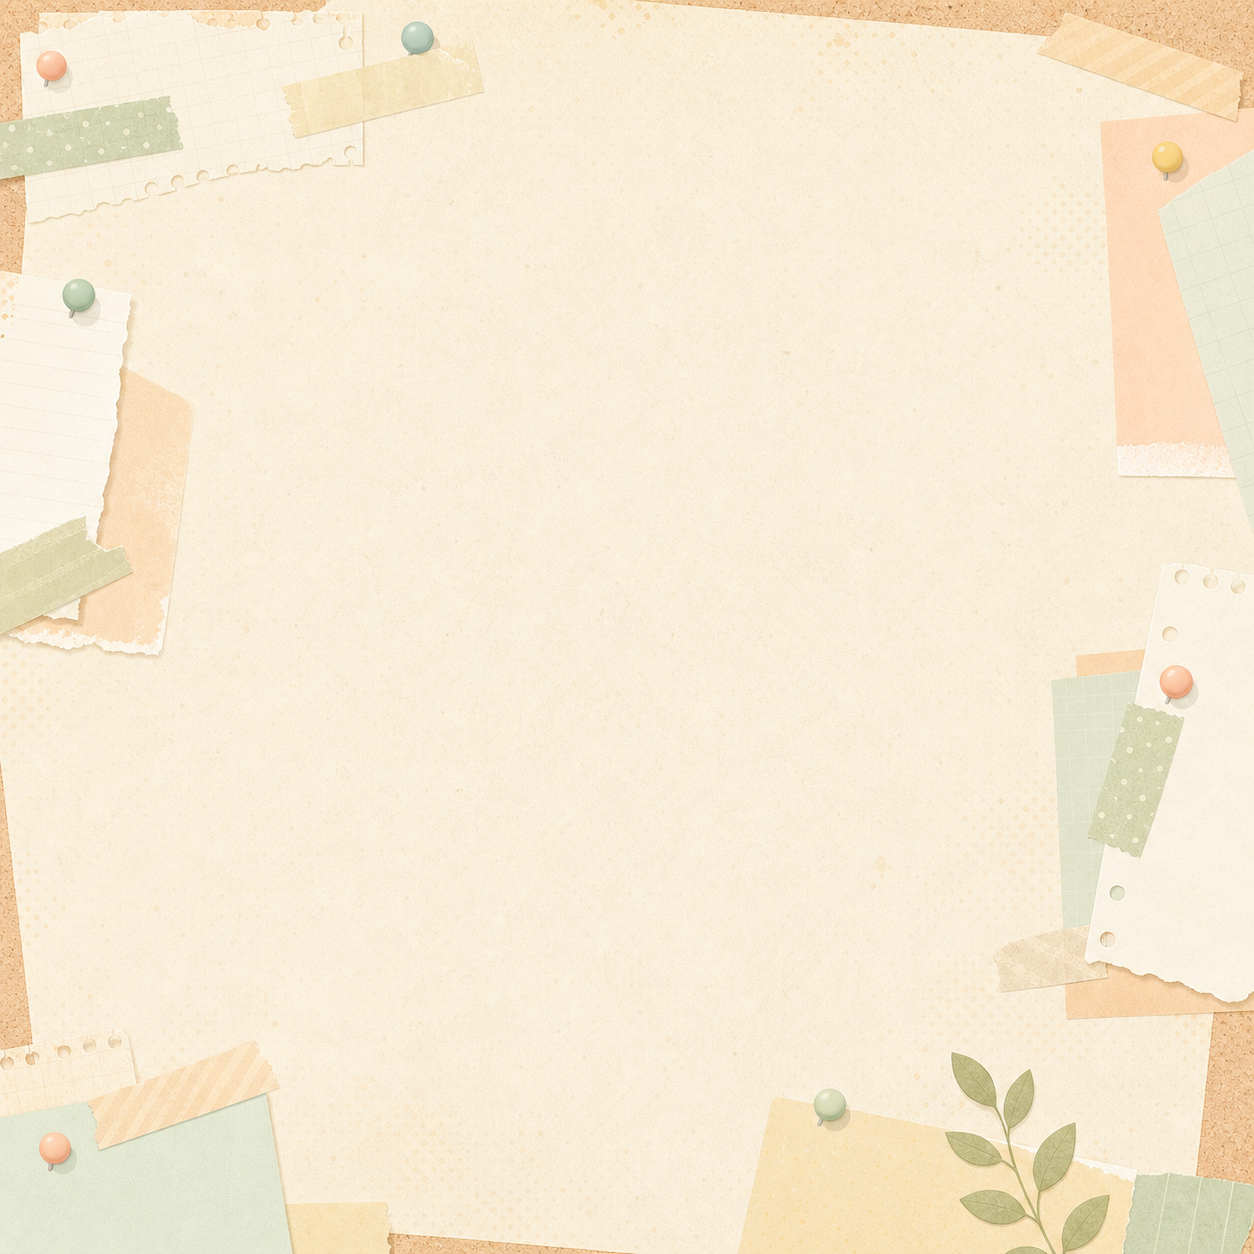
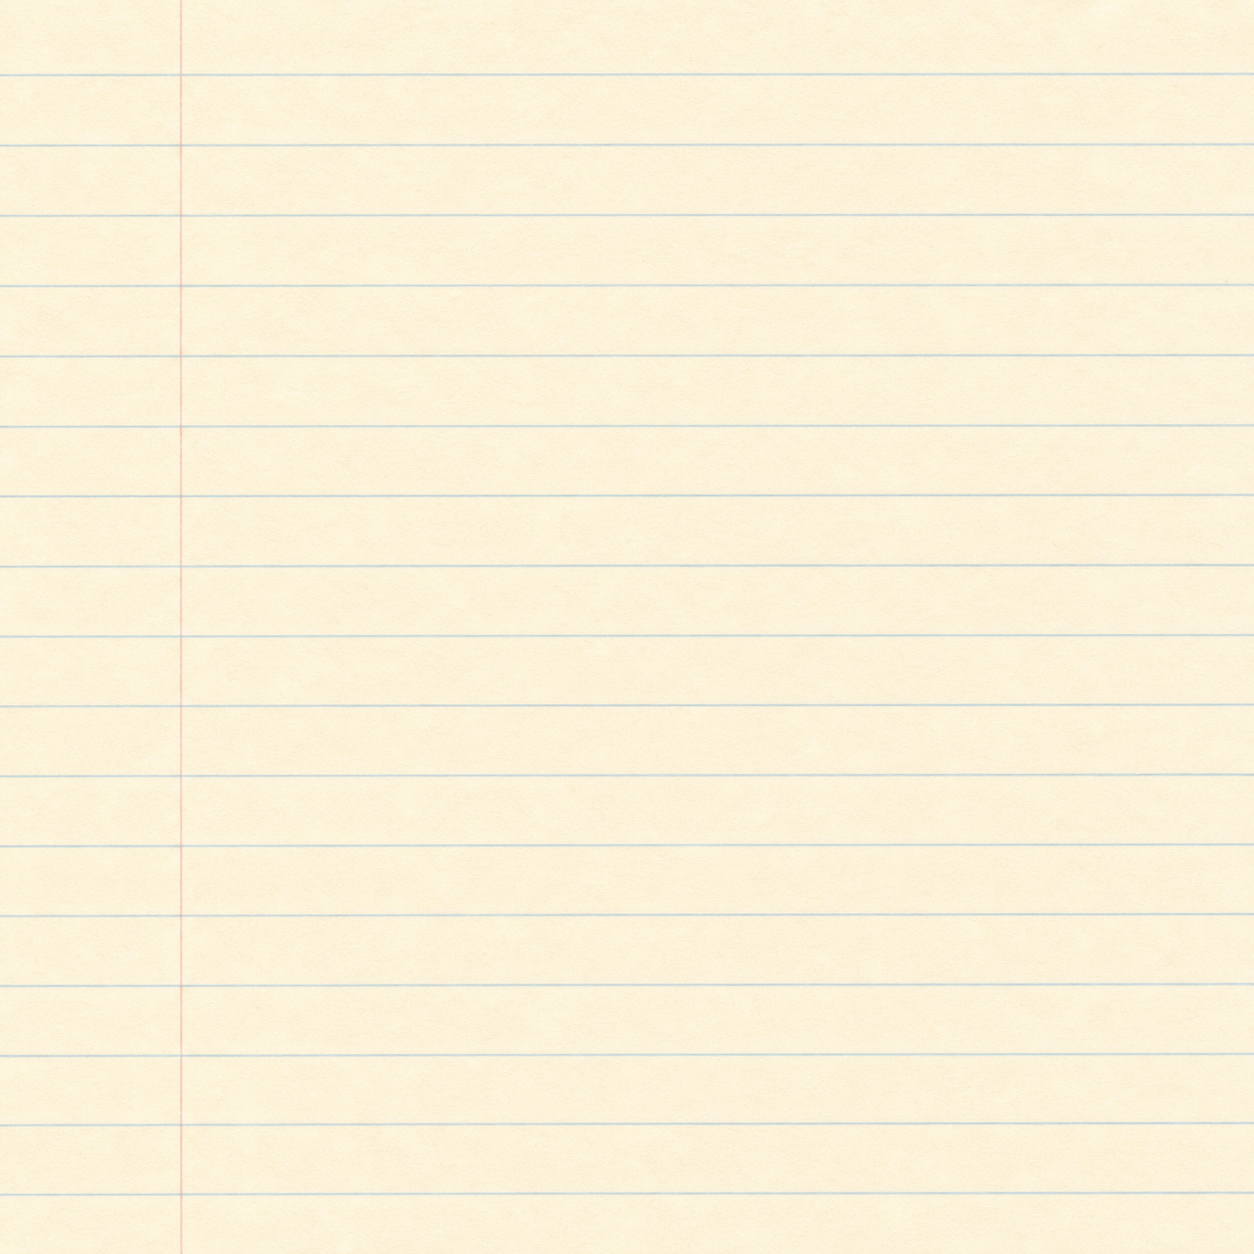
update mailbox paper background

diff --git a/docs/system-design.html b/docs/system-design.html
@@ -660,7 +660,7 @@
 <li>Player deletes are soft deletes on <code>MailboxMessage.deletedAt</code>; future-eligible global batches still see that delivery history, so a deleted mail is not recreated on the next mailbox summary or list refresh.</li>
 </ul>
 <ul>
-<li>The player mailbox keeps the same list/detail layout for empty inboxes; the left mail list shows the empty state while the detail pane remains reserved. Desktop uses a left-list/right-detail split, while mobile remains list-first and enters the selected detail with an explicit back control. Every mail row shows its sender below the title, and the paper detail repeats the sender directly below the heading. Its player modal title omits the former English subtitle, and the close button stays in the title row on desktop and in the final Bright School portrait mobile safety layer. Mail rows are colored by status: pink for unread/unclaimed, light green for read/unclaimed, and gray for read/completed. Item attachments render a 42px catalog image or built-in semantic icon beside the localized item name, quantity, and claim state; internal item ids are data only and never player copy. The mail detail pane stretches to the bottom of the mailbox content area with modal padding preserved; long mail text scrolls inside the body region while time, title, sender, attachment, and actions stay in the detail frame. The detail pane uses <code>/assets/mailbox/mail-body-paper.png</code> as a covered paper background on desktop and mobile, with a light translucent frosted overlay above the art that fades at the edges to protect text readability without hiding the paper, a thicker paper border, and a small lower-right shadow; delete remains the icon-only pink circular trash control in the detail pane's transparent top-right time row.</li>
+<li>The player mailbox keeps the same list/detail layout for empty inboxes; the left mail list shows the empty state while the detail pane remains reserved. Desktop uses a left-list/right-detail split, while mobile remains list-first and enters the selected detail with an explicit back control. Every mail row shows its sender below the title, and the paper detail repeats the sender directly below the heading. Its player modal title omits the former English subtitle, and the close button stays in the title row on desktop and in the final Bright School portrait mobile safety layer. Mail rows are colored by status: pink for unread/unclaimed, light green for read/unclaimed, and gray for read/completed. Item attachments render a 42px catalog image or built-in semantic icon beside the localized item name, quantity, and claim state; internal item ids are data only and never player copy. The mail detail pane stretches to the bottom of the mailbox content area with modal padding preserved; long mail text scrolls inside the body region while time, title, sender, attachment, and actions stay in the detail frame. The detail pane uses <code>/assets/mailbox/mail-body-paper.png</code> as a covered paper background on desktop and mobile. That raster is an edge-to-edge warm-ivory sheet with pale-blue horizontal rules and one faint muted-red left margin line; it contains no surrounding stationery, corner objects, frame, or sheet-edge decoration. A light translucent frosted overlay above the art fades at the edges to protect text readability without hiding the rules, while the detail surface keeps its thicker paper border and small lower-right shadow; delete remains the icon-only pink circular trash control in the detail pane's transparent top-right time row.</li>
 </ul>
 <ul>
 <li>App-level overlays must keep <code>useOverlayState</code>, <code>App</code>, <code>useAppActions</code>, and <code>useOverlayActions</code> wiring in sync. <code>closeAllOverlays()</code> is reused by <code>match:found</code>, room resume, and replay entry flows, so a missing overlay setter can break matchmaking before the match-success/preload state is recorded.</li>
@@ -5029,7 +5029,7 @@
 <li>The home mailbox entry uses a <code>lucide-react</code> mail icon in the existing top-right action cluster on desktop and the compact mobile menu on phones. The badge is the unread plus claimable count from the summary API.</li>
 </ul>
 <ul>
-<li><code>src/styles/modals/information-center.css</code> defines the shared desktop list/reader grid for announcement and mailbox (<code>288–312px</code> master column plus a flexible reader). <code>src/styles/modals/mailbox.css</code> only owns mailbox list states, the existing mail-paper reader, attachments, and actions. Item attachments use a 42px catalog image or semantic icon followed by localized name, quantity, and claim state; the row fits portrait width without rendering internal ids. Desktop opens the newest message after loading; mobile remains list-first and no longer renders a horizontal card strip above the reader.</li>
+<li><code>src/styles/modals/information-center.css</code> defines the shared desktop list/reader grid for announcement and mailbox (<code>288–312px</code> master column plus a flexible reader). <code>src/styles/modals/mailbox.css</code> only owns mailbox list states, the mail-paper reader, attachments, and actions. The reader keeps the stable <code>/assets/mailbox/mail-body-paper.png</code> URL, whose raster is now a plain edge-to-edge warm-ivory sheet with pale-blue horizontal rules and a faint muted-red left margin line, without surrounding stationery or edge decoration. Item attachments use a 42px catalog image or semantic icon followed by localized name, quantity, and claim state; the row fits portrait width without rendering internal ids. Desktop opens the newest message after loading; mobile remains list-first and no longer renders a horizontal card strip above the reader.</li>
 </ul>
 <ul>
 <li>Desktop announcement, changelog, and mailbox information centers open the newest first row after loading; an unread default row follows the same read mutation path as a clicked row. Phones remain list-first, keep their existing domain empty copy, and mutate read state only after an explicit row selection.</li>
@@ -5116,7 +5116,7 @@
 <li>Empty player inboxes keep the same mailbox layout as populated inboxes: the mail strip renders a compact empty row, and the detail pane stays reserved instead of replacing the whole modal with a separate empty card.</li>
 </ul>
 <ul>
-<li>Mail list rows use status color as a scan cue: pink for unread or unclaimed mail, light green for read but unclaimed mail, and gray for completed mail. The detail pane uses <code>/assets/mailbox/mail-body-paper.png</code> with proportional cover sizing and a light frosted content overlay so text stays readable.</li>
+<li>Mail list rows use status color as a scan cue: pink for unread or unclaimed mail, light green for read but unclaimed mail, and gray for completed mail. The detail pane uses the plain ruled <code>/assets/mailbox/mail-body-paper.png</code> with proportional cover sizing and a light frosted content overlay so text stays readable; the raster itself contains no four-side decoration.</li>
 </ul>
 <ul>
 <li>Mailbox mobile safety lives in <code>src/styles/mobile-adaptive/bright-school-portrait/mailbox-modal.css</code>, imported through the final Bright School portrait guard entry after chat fixes and before character detail fixes.</li>

diff --git a/.trellis/tasks/07-31-generate-plain-lined-mailbox-paper-candidates/prd.md b/.trellis/tasks/07-31-generate-plain-lined-mailbox-paper-candidates/prd.md
@@ -1,0 +1,77 @@
+# Generate Plain Lined Mailbox Paper Candidates
+
+## Goal
+
+Generate three selectable square mailbox letter-paper backgrounds that replace the current decorated collage with a plain, readable horizontal-rule paper surface.
+
+## What I Already Know
+
+- The current asset is `public/assets/mailbox/mail-body-paper.png`.
+- It is a `1254x1254` RGB image used by `.mailbox-detail` with `background-size: cover`.
+- The current asset contains paper scraps, tape, pins, leaves, and other decorations around all four sides.
+- The user wants plain lined stationery and explicitly does not want any surrounding decoration.
+
+## Requirements
+
+- Produce three distinct but restrained visual directions.
+- Keep every candidate square and suitable for `background-size: cover`.
+- Fill the entire canvas with a flat, front-facing paper surface.
+- Use uninterrupted horizontal writing rules as the only structural graphic.
+- Keep contrast low enough for dark mailbox text to remain readable.
+- Include no words, logos, watermarks, objects, borders, or visible sheet edges.
+- Persist all three candidates in the task artifact folder for comparison.
+- Use candidate 1, the classic warm-ivory paper with pale-blue rules and a faint muted-red left margin, as the selected production background.
+- Replace the existing mailbox background at its current stable asset path so the consuming CSS does not need a URL change.
+- Preserve the existing mailbox layout and interaction behavior.
+
+## Candidate Directions
+
+1. Classic warm ivory paper with pale blue rules and a faint muted-red left margin.
+2. Natural cream paper with warm gray-brown rules and no margin line.
+3. Fresh light ivory paper with desaturated mint-gray rules and a faint dusty-pink left margin.
+
+## Acceptance Criteria
+
+- [x] Three candidate images are generated and shown to the user.
+- [x] Every image has a square composition and continuous horizontal rules.
+- [x] No candidate contains corner or edge decorations, stationery objects, sheet outlines, shadows, text, or watermarks.
+- [x] Paper grain remains subtle and does not compete with mailbox content.
+- [x] Existing `mail-body-paper.png` and consuming CSS remain unchanged pending selection.
+- [x] Candidate 1 replaces `public/assets/mailbox/mail-body-paper.png` at exactly `1254x1254`.
+- [ ] The user completes final visual acceptance on desktop and portrait mobile; automated visual inspection was explicitly stopped at the user's request.
+- [x] System design documentation and generated HTML are synchronized.
+
+## Definition of Done
+
+- The three image files and their prompts are saved.
+- Candidate 1 is copied to the stable production mailbox asset path after user selection.
+- Static asset validation, focused mailbox tests, lint, build, and documentation generation pass.
+- Final visual acceptance is handed off to the user.
+
+## Decision (ADR-lite)
+
+**Context**: The production background is a square raster that is cropped with `background-size: cover`, while the user requested a simpler visual direction.
+
+**Decision**: Generate three edge-to-edge, orthographic paper textures with no focal decoration, then adopt candidate 1 after user selection. Keep the production URL stable and replace only the raster contents.
+
+**Consequences**: The existing CSS and preload behavior continue to work without a URL migration. The previous decorated raster is replaced but remains recoverable from Git history.
+
+## Out of Scope
+
+- Editing mailbox CSS or layout.
+- Adding decorative objects or adapting other modal backgrounds.
+
+## Technical Notes
+
+- Current consumer: `src/styles/modals/mailbox/detail.css`.
+- Current source asset: `public/assets/mailbox/mail-body-paper.png`.
+- Generation mode: GPT Image 2 skill Mode B, using the host-native image generation tool.
+- Prompt record: `garden-gpt-image-2/prompt/mailbox-lined-paper-options-20260731-102259.md`.
+- All three generated candidates were `1254x1254` PNG images. Candidate 1 is the persisted production file; discarded task-local copies are not retained after selection.
+- Validation:
+  - `npm run lint`
+  - `npm test -- src/modals/MailboxModal.test.jsx` (`7` tests)
+  - `npm run build`
+  - `npm run docs:system-design`
+  - production and built mailbox assets match byte-for-byte and remain `1254x1254` RGB PNGs
+- Trellis spec review: no code-spec update is needed because this changes no API, state, CSS ownership, reusable implementation pattern, or cross-layer contract. The durable visual fact is captured in `docs/system-design.md` and `docs/system-design/06-ui-theme-mobile.md`.

diff --git a/docs/system-design.md b/docs/system-design.md
@@ -252,7 +252,7 @@
 - Mailbox is an authenticated player/admin HTTP feature. Players open it from the home top-right action area or the mobile menu, read admin-only text mail, manually claim one optional attachment, and can keep at most 20 messages.
 - Admins send mailbox batches from the admin console to one user, all current users, or all current plus future users. Every new send requires a trimmed display sender of at most 40 characters; the backend validates it and snapshots it onto both `MailboxBatch` and each delivered `MailboxMessage`, including messages delivered later from future-eligible batches. Older rows with no stored sender are projected as `系统` instead of exposing the internal admin username. Item and coin claims update the existing inventory and progress systems.
 - Player deletes are soft deletes on `MailboxMessage.deletedAt`; future-eligible global batches still see that delivery history, so a deleted mail is not recreated on the next mailbox summary or list refresh.
-- The player mailbox keeps the same list/detail layout for empty inboxes; the left mail list shows the empty state while the detail pane remains reserved. Desktop uses a left-list/right-detail split, while mobile remains list-first and enters the selected detail with an explicit back control. Every mail row shows its sender below the title, and the paper detail repeats the sender directly below the heading. Its player modal title omits the former English subtitle, and the close button stays in the title row on desktop and in the final Bright School portrait mobile safety layer. Mail rows are colored by status: pink for unread/unclaimed, light green for read/unclaimed, and gray for read/completed. Item attachments render a 42px catalog image or built-in semantic icon beside the localized item name, quantity, and claim state; internal item ids are data only and never player copy. The mail detail pane stretches to the bottom of the mailbox content area with modal padding preserved; long mail text scrolls inside the body region while time, title, sender, attachment, and actions stay in the detail frame. The detail pane uses `/assets/mailbox/mail-body-paper.png` as a covered paper background on desktop and mobile, with a light translucent frosted overlay above the art that fades at the edges to protect text readability without hiding the paper, a thicker paper border, and a small lower-right shadow; delete remains the icon-only pink circular trash control in the detail pane's transparent top-right time row.
+- The player mailbox keeps the same list/detail layout for empty inboxes; the left mail list shows the empty state while the detail pane remains reserved. Desktop uses a left-list/right-detail split, while mobile remains list-first and enters the selected detail with an explicit back control. Every mail row shows its sender below the title, and the paper detail repeats the sender directly below the heading. Its player modal title omits the former English subtitle, and the close button stays in the title row on desktop and in the final Bright School portrait mobile safety layer. Mail rows are colored by status: pink for unread/unclaimed, light green for read/unclaimed, and gray for read/completed. Item attachments render a 42px catalog image or built-in semantic icon beside the localized item name, quantity, and claim state; internal item ids are data only and never player copy. The mail detail pane stretches to the bottom of the mailbox content area with modal padding preserved; long mail text scrolls inside the body region while time, title, sender, attachment, and actions stay in the detail frame. The detail pane uses `/assets/mailbox/mail-body-paper.png` as a covered paper background on desktop and mobile. That raster is an edge-to-edge warm-ivory sheet with pale-blue horizontal rules and one faint muted-red left margin line; it contains no surrounding stationery, corner objects, frame, or sheet-edge decoration. A light translucent frosted overlay above the art fades at the edges to protect text readability without hiding the rules, while the detail surface keeps its thicker paper border and small lower-right shadow; delete remains the icon-only pink circular trash control in the detail pane's transparent top-right time row.
 - App-level overlays must keep `useOverlayState`, `App`, `useAppActions`, and `useOverlayActions` wiring in sync. `closeAllOverlays()` is reused by `match:found`, room resume, and replay entry flows, so a missing overlay setter can break matchmaking before the match-success/preload state is recorded.
 
 ## Stability Boundary Update

diff --git a/docs/system-design/06-ui-theme-mobile.md b/docs/system-design/06-ui-theme-mobile.md
@@ -144,7 +144,7 @@
 ## Mailbox UI And Mobile
 
 - The home mailbox entry uses a `lucide-react` mail icon in the existing top-right action cluster on desktop and the compact mobile menu on phones. The badge is the unread plus claimable count from the summary API.
-- `src/styles/modals/information-center.css` defines the shared desktop list/reader grid for announcement and mailbox (`288–312px` master column plus a flexible reader). `src/styles/modals/mailbox.css` only owns mailbox list states, the existing mail-paper reader, attachments, and actions. Item attachments use a 42px catalog image or semantic icon followed by localized name, quantity, and claim state; the row fits portrait width without rendering internal ids. Desktop opens the newest message after loading; mobile remains list-first and no longer renders a horizontal card strip above the reader.
+- `src/styles/modals/information-center.css` defines the shared desktop list/reader grid for announcement and mailbox (`288–312px` master column plus a flexible reader). `src/styles/modals/mailbox.css` only owns mailbox list states, the mail-paper reader, attachments, and actions. The reader keeps the stable `/assets/mailbox/mail-body-paper.png` URL, whose raster is now a plain edge-to-edge warm-ivory sheet with pale-blue horizontal rules and a faint muted-red left margin line, without surrounding stationery or edge decoration. Item attachments use a 42px catalog image or semantic icon followed by localized name, quantity, and claim state; the row fits portrait width without rendering internal ids. Desktop opens the newest message after loading; mobile remains list-first and no longer renders a horizontal card strip above the reader.
 - Desktop announcement, changelog, and mailbox information centers open the newest first row after loading; an unread default row follows the same read mutation path as a clicked row. Phones remain list-first, keep their existing domain empty copy, and mutate read state only after an explicit row selection.
 - The mailbox modal is included in the shared terminal and Bright School modal shell layers so desktop renders as a centered sheet instead of a full-width strip, while mobile keeps a top sheet with safe-area padding.
 - `src/styles/admin/mailbox.css` defines the admin send form and recent send history as a two-column admin workspace on desktop and a single-column flow below 900px.
@@ -182,5 +182,5 @@
 - The home mailbox entry uses a mail icon in the existing top-right action cluster on desktop and in the compact mobile menu on phones. The badge combines unread mail and claimable attachment counts from the summary API, and the mobile menu renders it as an absolute corner badge so the number never wraps or changes button layout.
 - Player mailbox UI uses a two-column list/detail layout on desktop. Mobile switches to a top horizontal mail strip above the detail pane, with newer mail cards on the left and older cards to the right.
 - Empty player inboxes keep the same mailbox layout as populated inboxes: the mail strip renders a compact empty row, and the detail pane stays reserved instead of replacing the whole modal with a separate empty card.
-- Mail list rows use status color as a scan cue: pink for unread or unclaimed mail, light green for read but unclaimed mail, and gray for completed mail. The detail pane uses `/assets/mailbox/mail-body-paper.png` with proportional cover sizing and a light frosted content overlay so text stays readable.
+- Mail list rows use status color as a scan cue: pink for unread or unclaimed mail, light green for read but unclaimed mail, and gray for completed mail. The detail pane uses the plain ruled `/assets/mailbox/mail-body-paper.png` with proportional cover sizing and a light frosted content overlay so text stays readable; the raster itself contains no four-side decoration.
 - Mailbox mobile safety lives in `src/styles/mobile-adaptive/bright-school-portrait/mailbox-modal.css`, imported through the final Bright School portrait guard entry after chat fixes and before character detail fixes.

diff --git a/garden-gpt-image-2/prompt/mailbox-lined-paper-options-20260731-102259.md b/garden-gpt-image-2/prompt/mailbox-lined-paper-options-20260731-102259.md
@@ -1,0 +1,36 @@
+# Mailbox Lined Paper Options
+
+## Shared Constraints
+
+Use case: stylized-concept
+Asset type: square game UI mailbox reading-panel background texture
+Primary request: a plain, understated horizontal-lined letter-paper background
+Composition/framing: exact front-facing orthographic view; the paper surface fills the complete 1:1 canvas edge to edge; straight evenly spaced horizontal rules continue fully across the image; crop-safe for CSS `background-size: cover`; no focal point
+Lighting/mood: flat, soft, quiet, highly readable; no directional lighting
+Text: none
+Constraints: subtle low-contrast paper fibers; dark interface text must stay readable; no visible sheet boundary; no perspective; no objects; no decorative motifs
+Avoid: borders, frames, corner decorations, paper scraps, tape, pins, clips, flowers, leaves, envelopes, stamps, notebook holes, torn or deckled edges, folded corners, shadows, layered sheets, stains, splashes, vignettes, gradients, handwriting, printed text, logos, watermarks
+
+## Option 1 — Classic Blue Rules
+
+Scene/backdrop: warm ivory writing paper filling the entire canvas
+Style/medium: gently hand-painted 2D paper texture with very subtle natural fibers
+Color palette: warm ivory `#fff8e8`; pale desaturated blue rules `#bdd3db`; one extremely faint muted-red vertical margin line `#d8a1a1`
+Materials/textures: clean matte stationery paper; barely visible fiber variation; no aging marks
+Rule layout: horizontal rules spaced approximately 64–72 pixels apart at a 1254-pixel reference size; one thin vertical margin line about 13% from the left edge
+
+## Option 2 — Natural Warm Rules
+
+Scene/backdrop: natural light-cream writing paper filling the entire canvas
+Style/medium: understated tactile stationery texture, slightly fibrous but clean and uniform
+Color palette: soft cream `#f6edd8`; warm gray-brown rules `#c9bba5`
+Materials/textures: subtle unbleached paper fibers, extremely mild tonal variation, no stains or aged edges
+Rule layout: horizontal rules spaced approximately 64–72 pixels apart at a 1254-pixel reference size; no vertical margin line
+
+## Option 3 — Fresh Mint Rules
+
+Scene/backdrop: fresh light-ivory writing paper filling the entire canvas
+Style/medium: clean soft-painted 2D stationery texture with restrained school-notebook character
+Color palette: light ivory `#fffaf0`; desaturated mint-gray rules `#bdd2ca`; one extremely faint dusty-pink vertical margin line `#e0b6bd`
+Materials/textures: smooth matte paper with only a whisper of fine grain; bright but not pure white
+Rule layout: horizontal rules spaced approximately 64–72 pixels apart at a 1254-pixel reference size; one thin vertical margin line about 13% from the left edge
